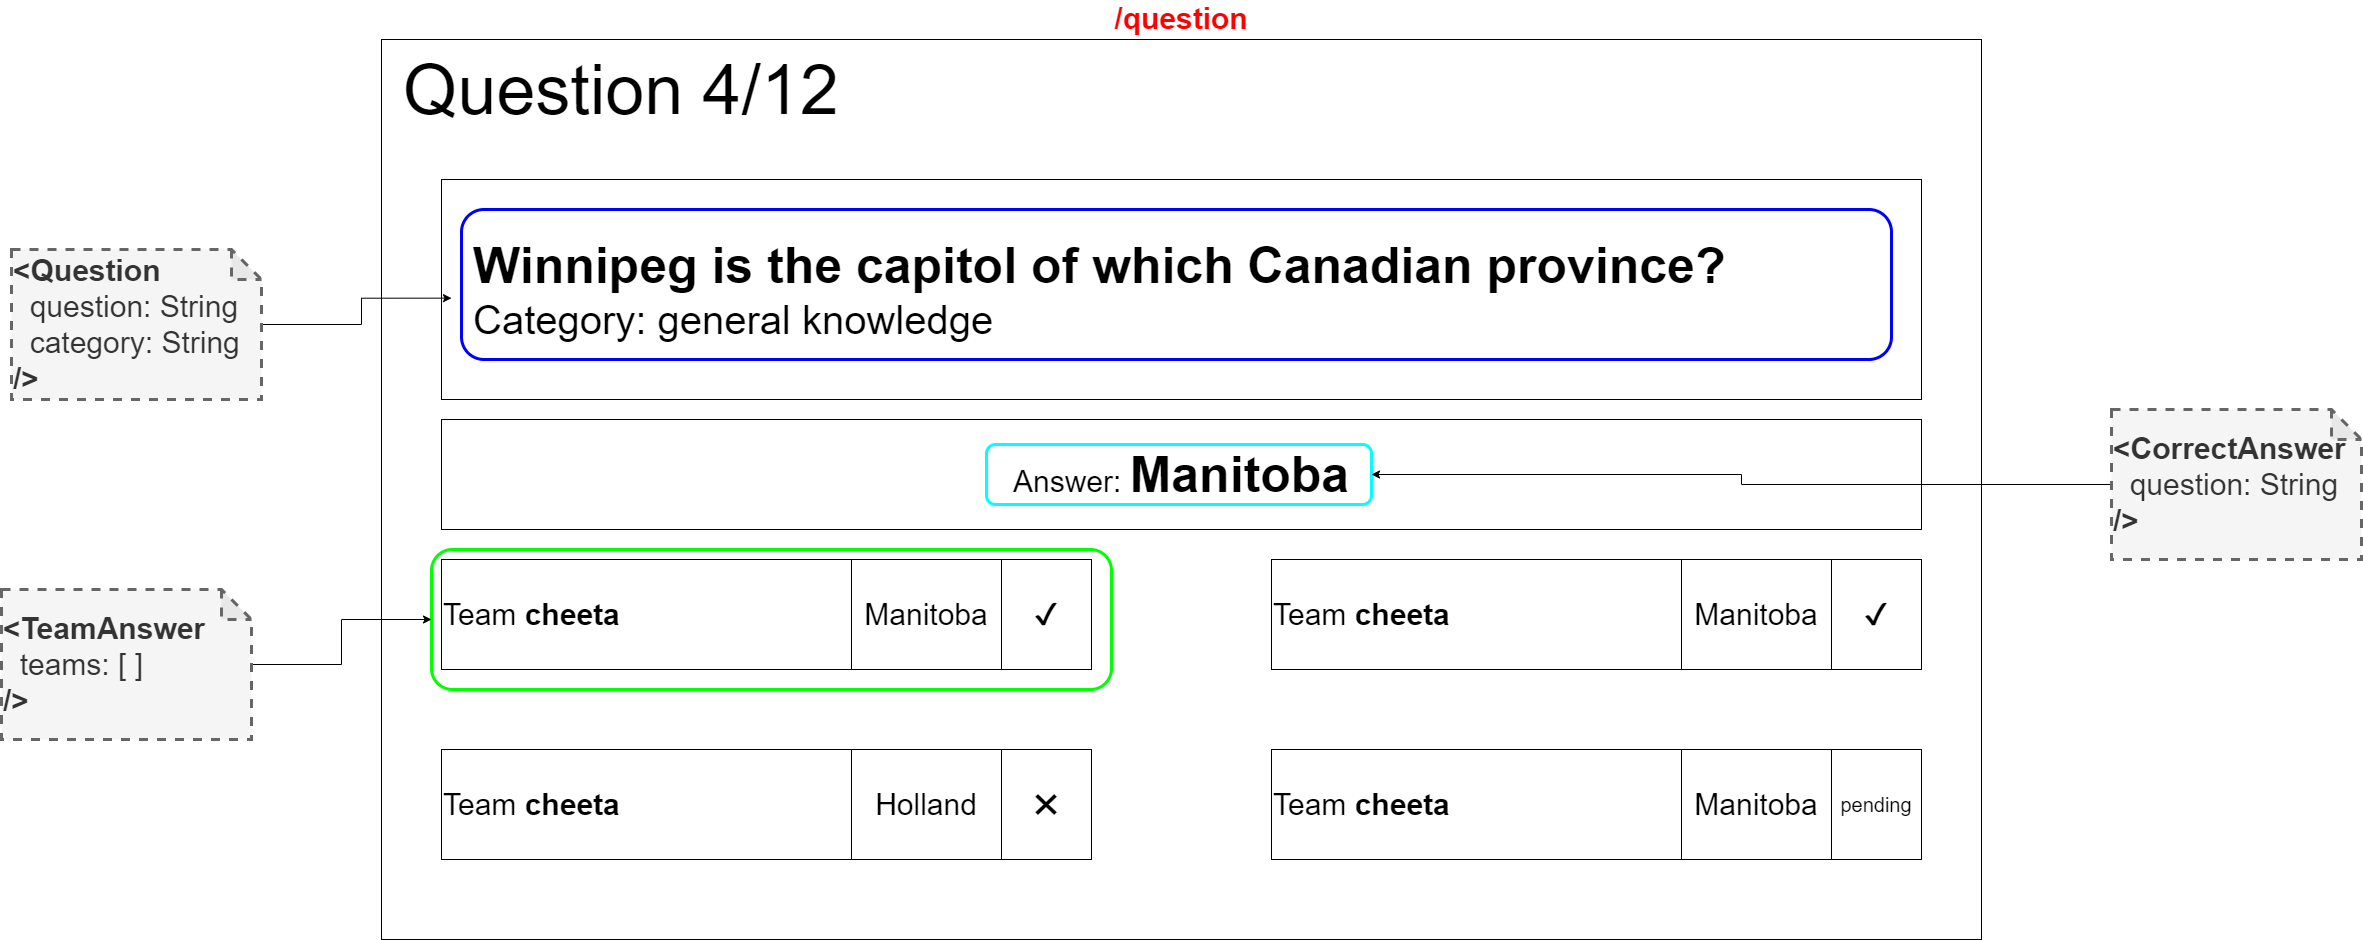
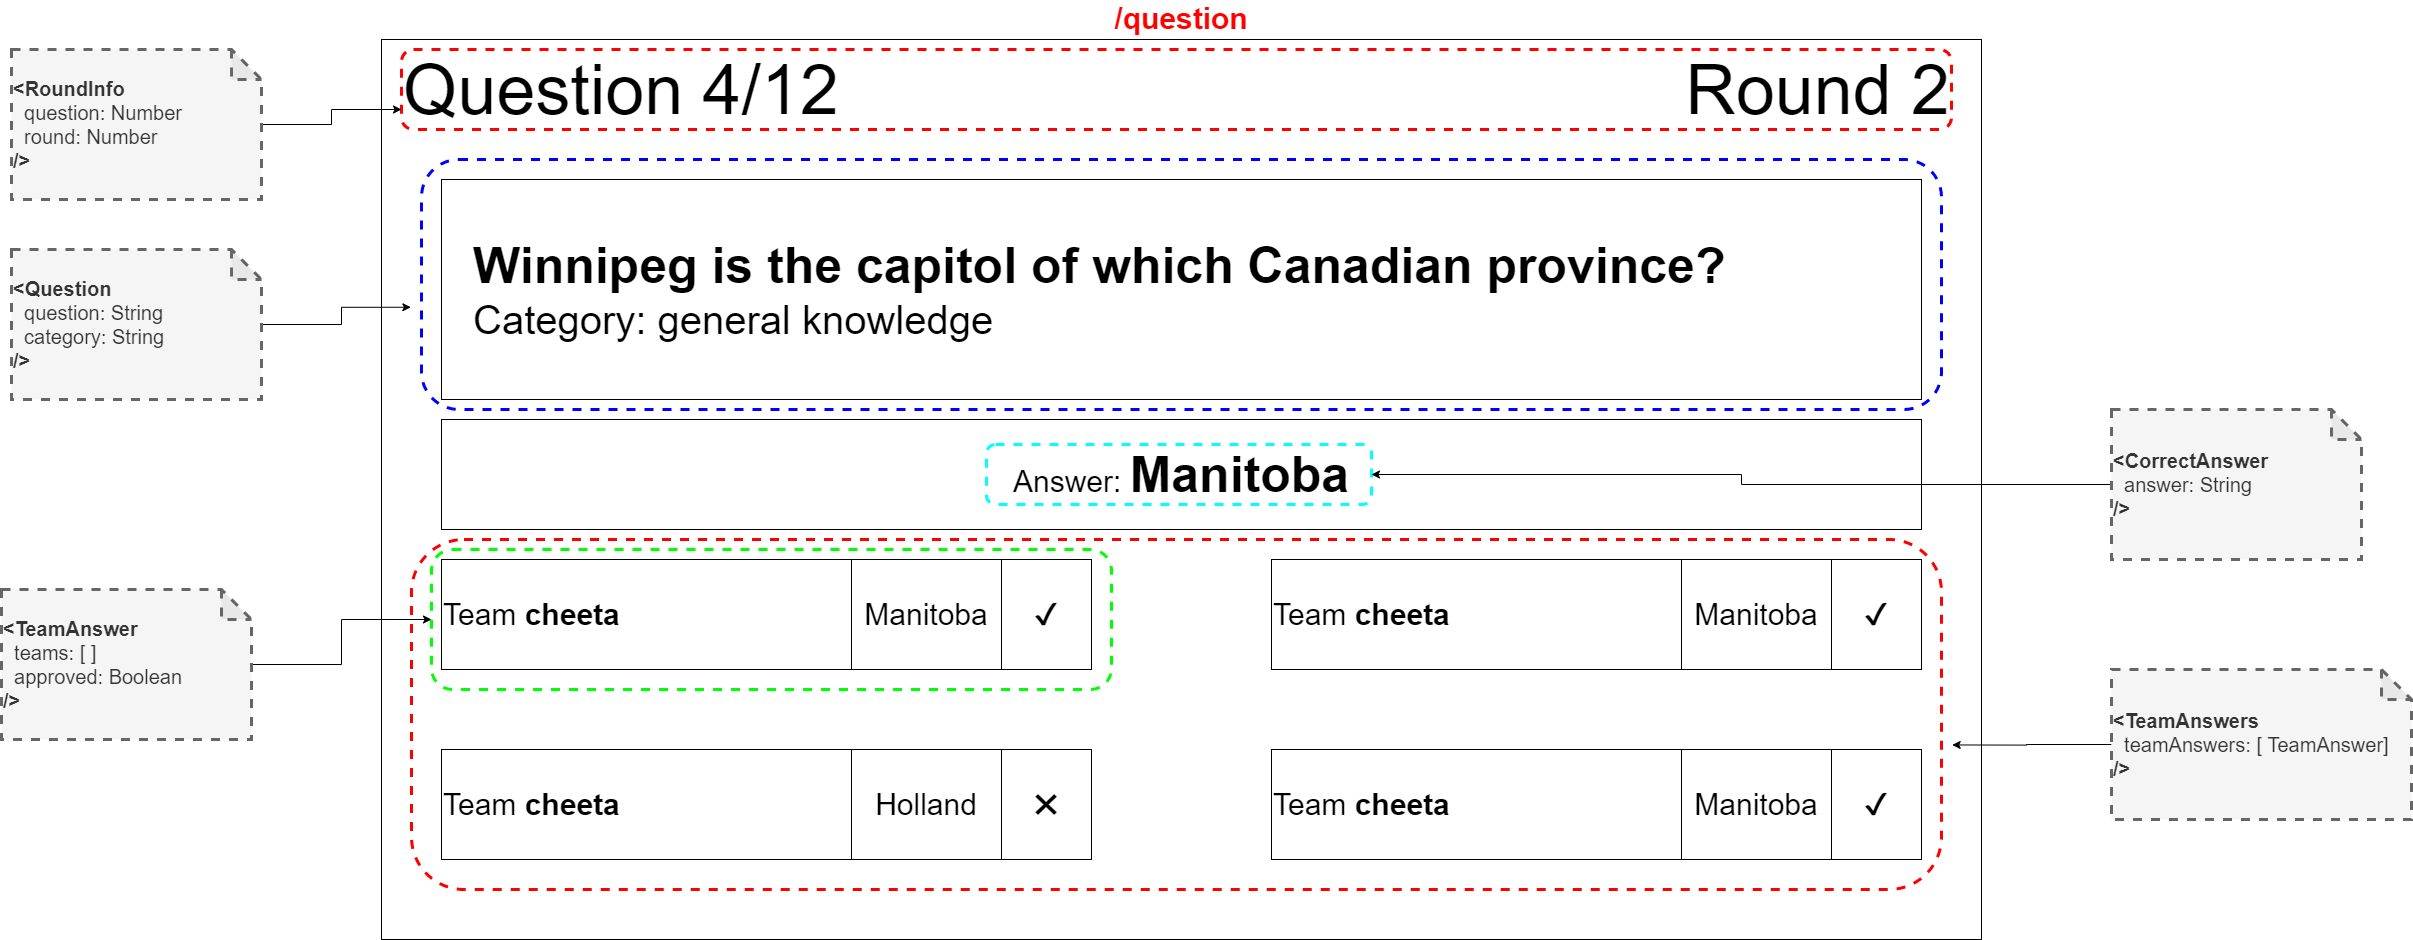
Update wireframes react with @ikbendesjaak

diff --git a/docs/rest-ws-specification.md b/docs/rest-ws-specification.md
@@ -2,49 +2,24 @@
 Tbe client-side app and server communicate with each other over the WebSocket protocol in order to make each other aware of changes. The client can retrieve information from the server using a RESTful API.
 
 ## WebSockets
+WebSockets notify the client or server something has happened.
+
 ### Quizmaster app
-| Event                 | Message type          | From       | To         |
-| --------------------- | --------------------- | ---------- | ---------- |
-| End round             | ``END_ROUND``         | Quizmaster | Server     |
-| End quiz              | ``END_QUIZ``          | Quizmaster | Server     |
-| Answer received       | ``ANSWER_RECEIVED``   | Server     | Quizmaster |
-| Submit answer         | ``SUBMIT_ANSWERS``    | Quizmaster | Server     |
-| New question selected | ``QUESTION_SELECTED`` | Quizmaster | Server     |
-| New team              | ``NEW_TEAM``          | Server     | Quizmaster |
-| Accept team           | ``ACCEPT_TEAM``       | Quizmaster | Server     |
-| Deny team             | ``DENY_TEAM``         | Quizmaster | Server     |
+| Message type | Payload | From | To |
+|---|---|---|---|---|
+|   |   |   |   |   |
 
 ### Team app
-| Event                 | Message type          | From       | To         |
-| --------------------- | --------------------- | ---------- | ---------- |
-| Team sign up          | ``TEAM_SIGN_UP``      | Team       | Server     |
-| Submit answer         | ``SUBMIT_TEAM_ANSWER``| Team       | Server     |
-| Team allowed          | ``TEAM_ACCEPTED``     | Server     | Team       |
-| Team denied           | ``TEAM_DENIED``       | Server     | Team       |
+
 
 ### Scoreboard app
-| Event                 | Message type          | From       | To         |
-| --------------------- | --------------------- | ---------- | ---------- |
-| Answer submitted      | ``ANSWER_SUBMITTED``  | Server     | Scoreboard |
+
 
 ## RESTful API
-The client can get all data that isn't time sensitive from the API. The API is RESTful which broadly means that:
- - URLs are resource-based.
- - All important methods (PUT, POST, DELETE, GET) are supported in the right way (PUT's are idempotent!).
- - Specific HTTP status codes are send for specific situations (not just 200, 404 and 500).
- - HTTP headers are used when they're useful (for example for authentication).
- - Support for caching GET requests.
+The client can get all data that isn't time sensitive from the API.
 
-| Request                                               | Result                            |
-| ----------------------------------------------------- | --------------------------------- |
-| ```POST /rooms/:id/rounds/:round/:question/team```    | Approve question answer           |
-| ```DELETE /rooms/:id/rounds/:round/:question/team```  | Disapprove question answer        |
-| ```GET /categories/:category/questions/:question```   | Get a question + answer           |
-| ```POST /rooms```                                     | Create a new quiz night           |
-| ```GET /categories```                                 | Get all categories                |
-| ```POST /rooms/:id/rounds```                          | Create a new round                |
-| ```GET /categories/:category/questions```             | Get all questions in a category   |
-| ```GET /rooms/:id/rounds/:round/:question```          | Get all answers for a question    |
-| ```GET /rooms/:id/teams```                            | Get all teams for a room          |
-| ```GET /rooms/:id/teams/:team/score```                | Get score for a team              |
-| ```GET /rooms/:id/rounds```                           | Gets all rounds                   |
+/api/v1/
+
+| Request | Parameters | Returns | Statuscodes
+|---|---|---|---|
+|   |   |   |   |

diff --git a/docs/wireframes.md b/docs/wireframes.md
@@ -1,11 +1,11 @@
  # Wireframes
 These wireframes show, in general, how a page will look.
 
-Most pages have a navbar with a link to the homepage, a help page, an idication who is logged in and an sign in/out button.
+Most pages have a navbar with a link to the homepage, a help page, an indication who is logged in and an sign in/out button.
 
 ## Quizmaster app
  ### New quiz page
- When the quiz master is logged in they can start a new quiz, generating a new room.
+When the quizmaster wants to start a new quiz, he can press the new quiz button in order to start a new quiz.
  ![quizmaster-new-quiz](wireframes/quizmaster-new-quiz.png)
 
  ### Teams applications page
@@ -13,19 +13,19 @@ Most pages have a navbar with a link to the homepage, a help page, an idication 
  ![quizmaster-teams-applications](wireframes/quizmaster-teams-applications.png)
 
  ### New round page
- On this page the quiz master can start a new round by choosing 3 categories on this page to be used for questions.
+ After having (dis)approved all teams, the quiz master can start a new round by choosing 3 categories on this page to be used for questions.
  ![quizmaster-new-round](wireframes/quizmaster-new-round.png)
 
  ### Questions page
- This page shows 3 questions from the 3 chosen categories. The quiz master can choose whatever question he wants or generate 3 other questions.
+ After having chosen the categories, the quiz master can choose whatever question he wants or generate 3 other questions.
  ![quizmaster-questions](wireframes/quizmaster-questions.png)
 
  ### Answer page
-On this page the quiz master, when logged in, can see the correct answer of the current question. They can also see the answers submitted by the teams and approve or disapprove them. When all answers have been (dis)approved the quiz master can submit the answers so that the teams can see them.
+After having selected a new question, the quiz master comes on the answer pages where he/she can see the new answers.
  ![quizmaster-answers](wireframes/quizmaster-answers.png)
 
- ### New round/ end quiz page
- On this page the quiz master can start a new round or end the quiz.
+ ### New round/end quiz page
+ When all 12 questions are over, the quiz master can start a new round or end the quiz.
  ![quizmaster-end](wireframes/quizmaster-end-round.png)
 
 ## Scoreboard app
